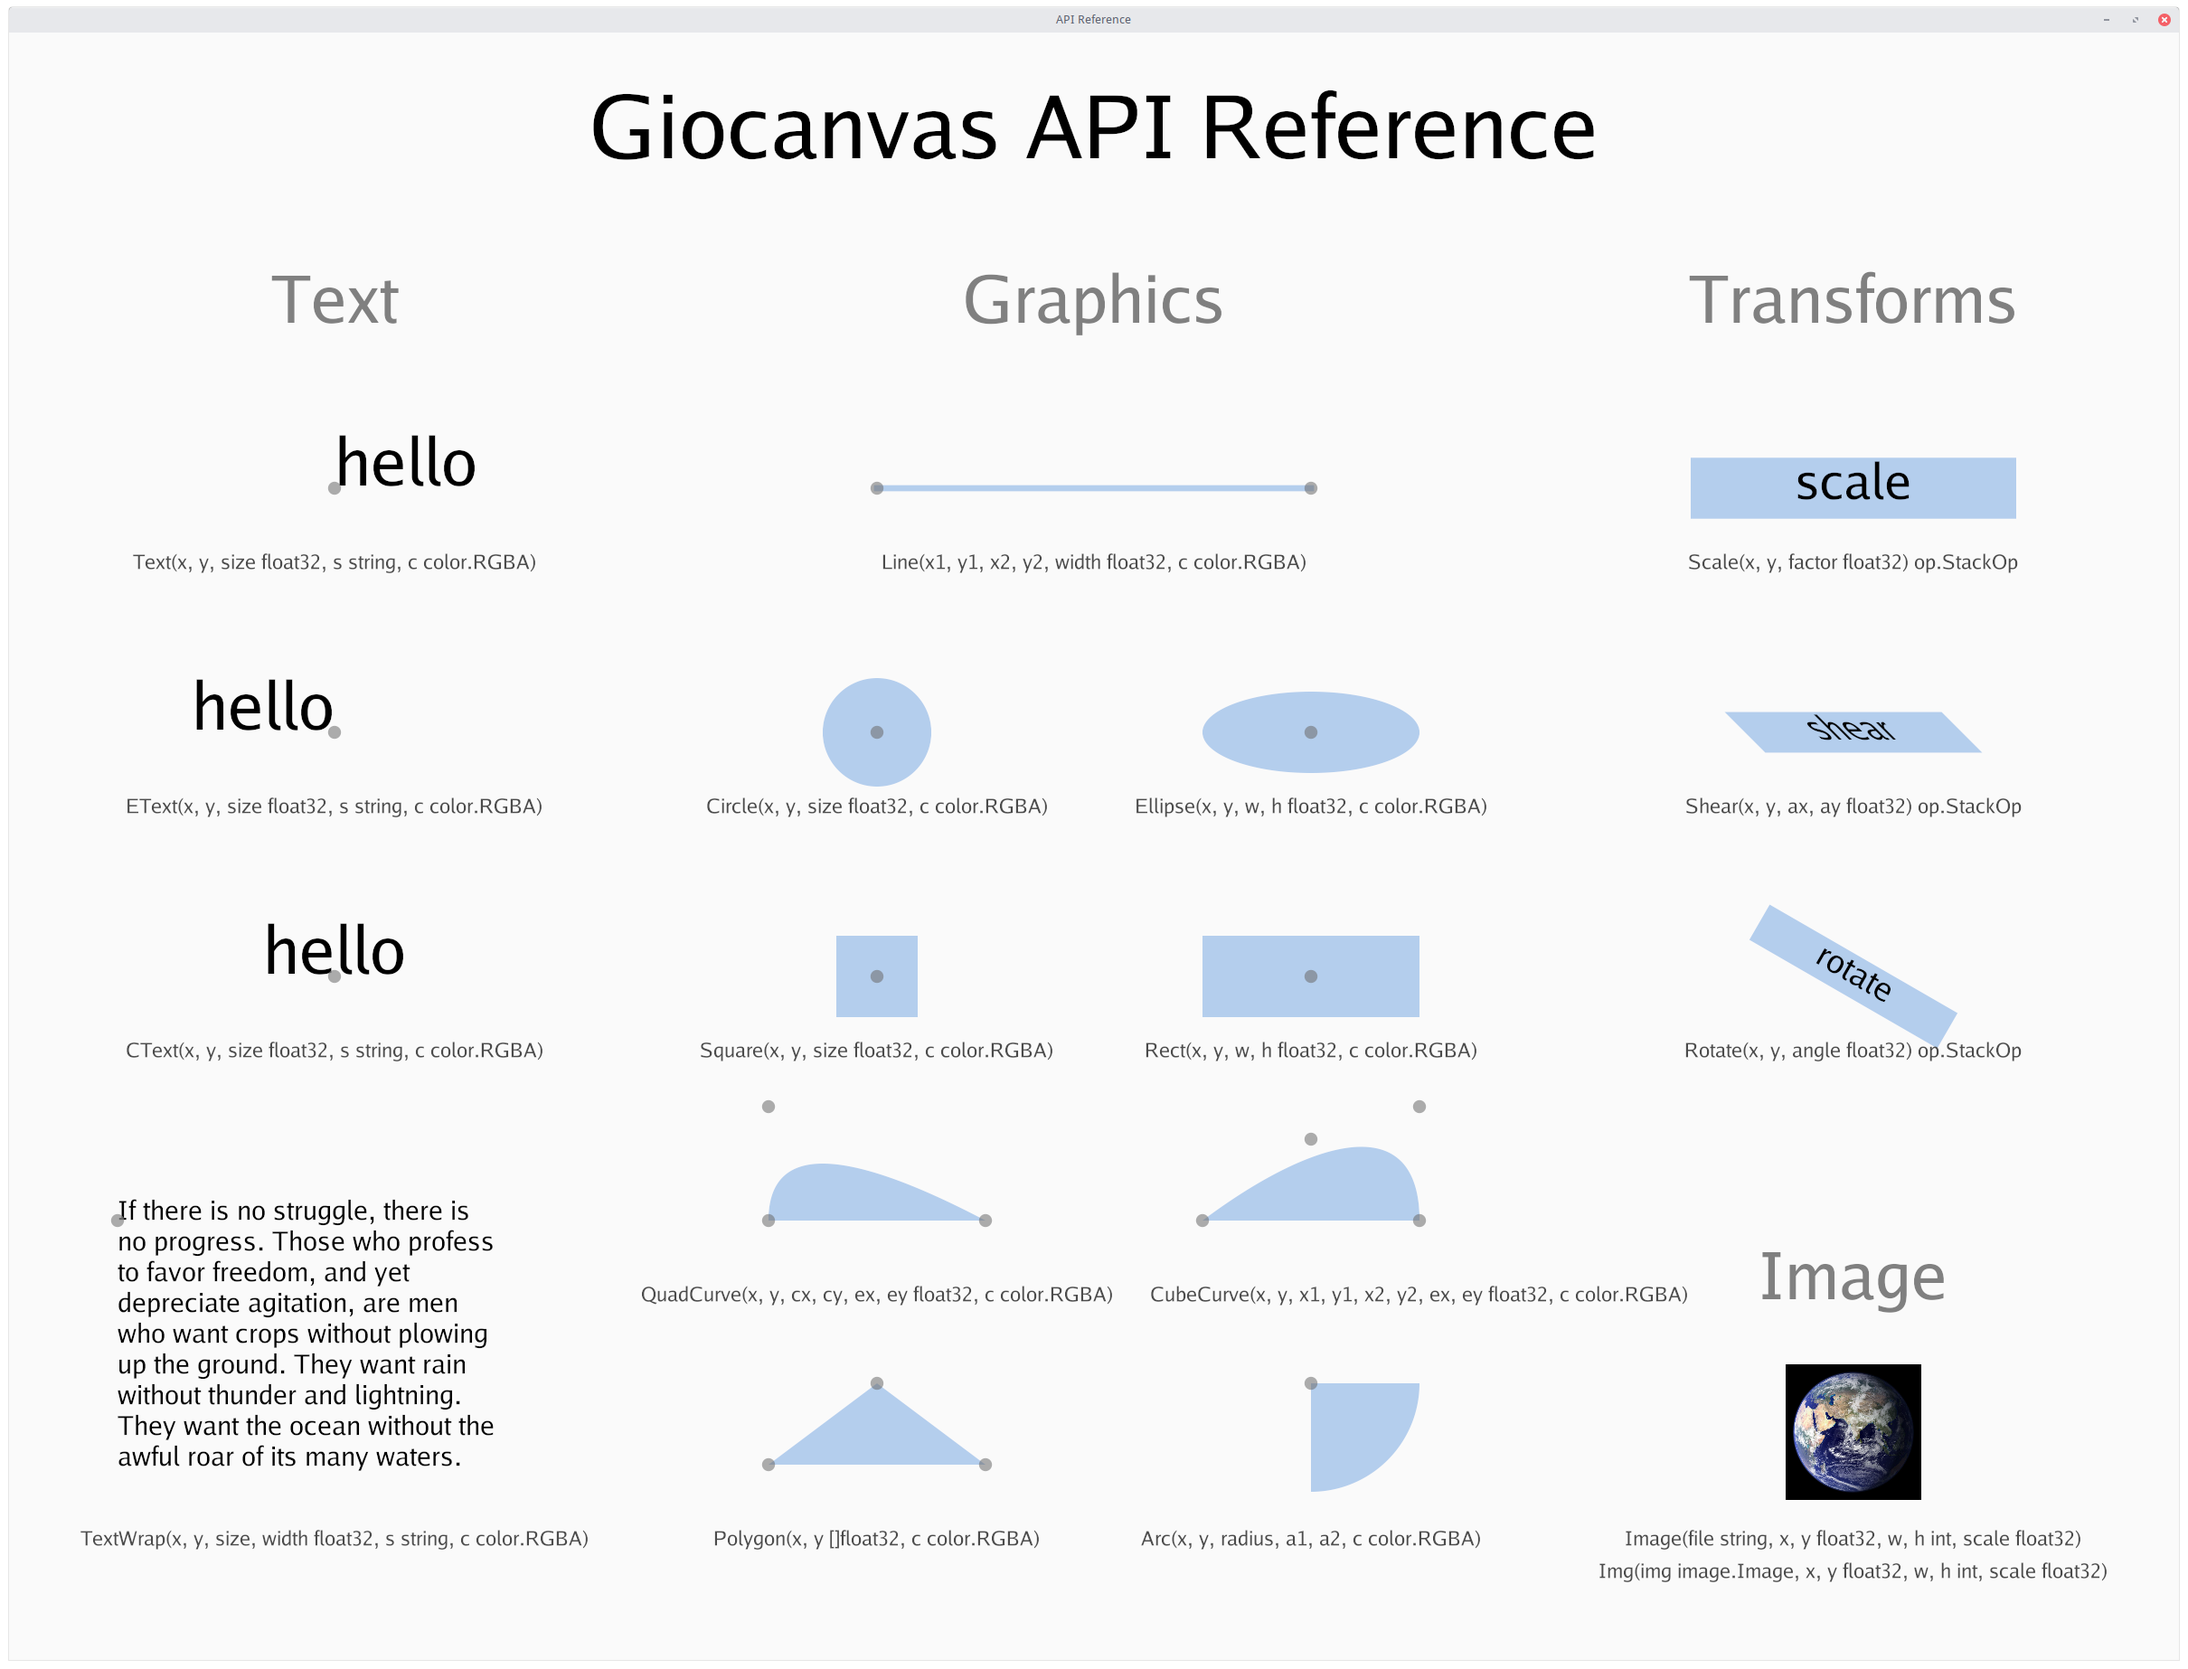
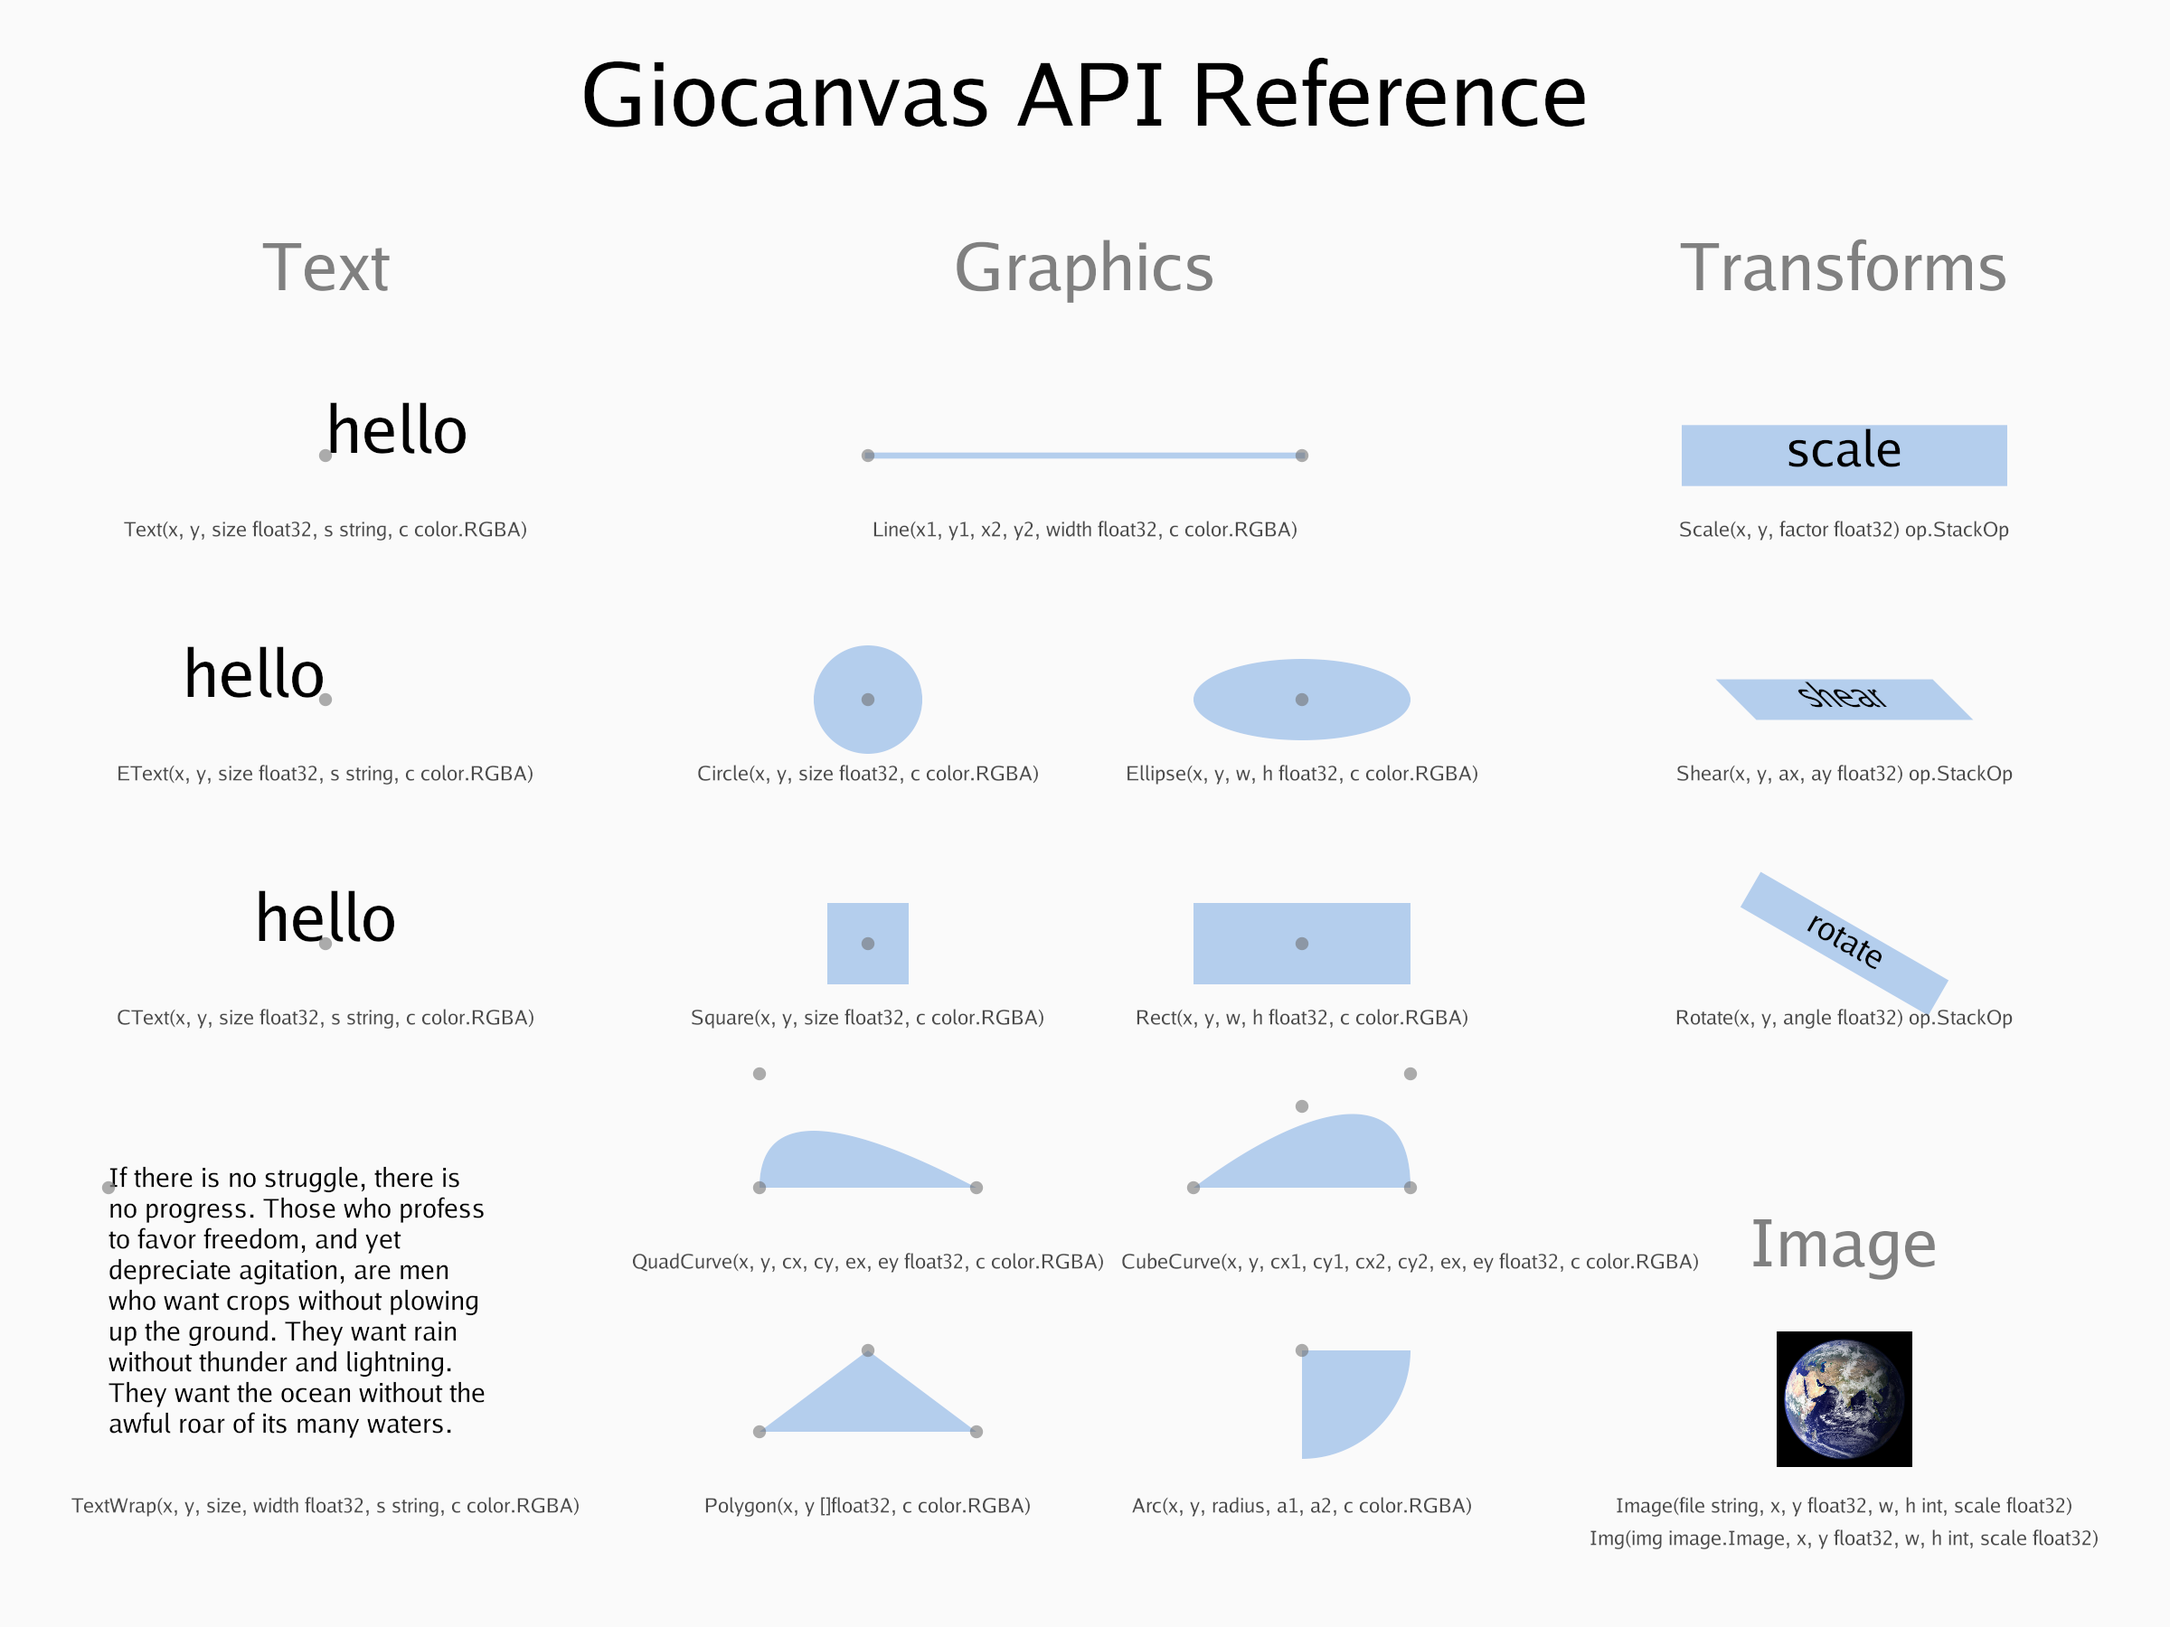
apisheet: tweak curve description

diff --git a/apisheet/main.go b/apisheet/main.go
@@ -93,7 +93,7 @@ func ref(title string, width, height float32) {
 			canvas.Circle(col2-5, y, dotsize, dotcolor)
 
 			canvas.CubeCurve(col2+5, y, x2, y+5, col2+15, y+7, x2+5, y, shapecolor)
-			canvas.CText(x2+5, y-5, apisize, "CubeCurve(x, y, x1, y1, x2, y2, ex, ey float32, c color.RGBA)", apicolor)
+			canvas.CText(x2+5, y-5, apisize, "CubeCurve(x, y, cx1, cy1, cx2, cy2, ex, ey float32, c color.RGBA)", apicolor)
 			canvas.Circle(col2+5, y, dotsize, dotcolor)
 			canvas.Circle(x2, y+5, dotsize, dotcolor)
 			canvas.Circle(col2+15, y+7, dotsize, dotcolor)
